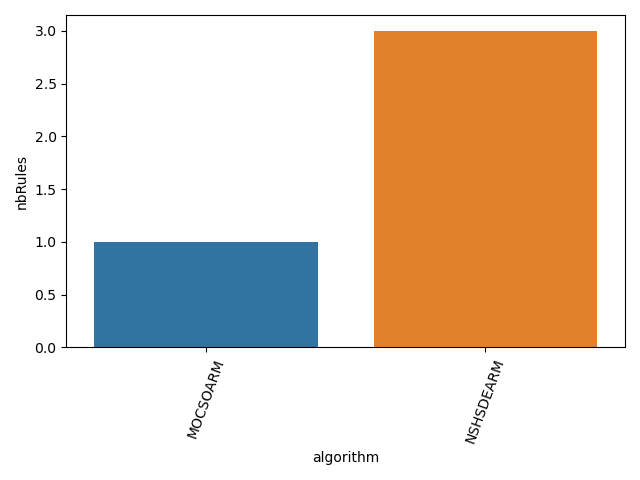
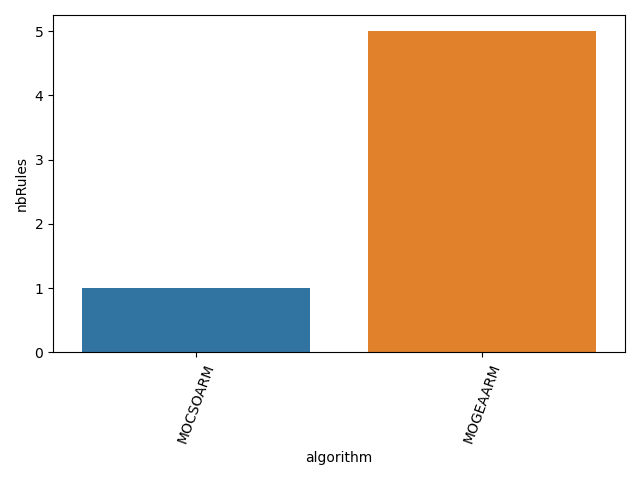
ad MOGEAARM

diff --git a/src/Algorithm/MOGEAARM.py b/src/Algorithm/MOGEAARM.py
@@ -1,0 +1,92 @@
+from src.Utils.Fitness import *
+from src.Utils.Population import *
+import matplotlib.pyplot as plt
+import pandas as pd
+from scipy.spatial import distance
+from src.Utils.Graphs import *
+from time import time
+from src.Utils.HyperParameters import *
+
+class MOGEAARM:
+    def __init__(self,nbItem,populationSize,nbIteration,nbObjectifs,objectiveNames,data,
+                 hyperParameters = HyperParameters(['Jr','Sr','epsilon'])):
+        self.population = Population('horizontal_binary', populationSize, nbItem)
+        self.nbItem = nbItem
+        self.nbIteration = nbIteration
+        self.nbObjectifs = nbObjectifs
+        self.fitness = Fitness('horizontal_binary', objectiveNames, populationSize )
+        self.bestInd = np.zeros(nbItem*2,dtype=float)
+        self.bestIndScore = np.zeros(nbObjectifs,dtype=float)
+        self.worstInd = np.zeros(nbItem * 2, dtype=float)
+        self.worstIndScore = np.zeros(nbObjectifs, dtype=float)
+        self.mutatedVectors = np.zeros((populationSize, nbItem * 2), dtype=float)
+        self.Jr = hyperParameters.hyperParameters['Jr']
+        self.Sr = hyperParameters.hyperParameters['Sr']
+        self.epsilon = hyperParameters.hyperParameters['epsilon']
+        self.mutatedVectors = np.zeros((populationSize,nbItem*2),dtype=float)
+        self.Si = np.ones(populationSize,dtype=float)
+        self.executionTime = 0
+        self.fitness.ComputeScorePopulation(self.population.population, data)
+
+
+
+    def UpdateBestWorst(self):
+        indexs = np.arange(self.population.populationSize)
+        paretoFront = np.ones(self.population.populationSize)
+        for i in range(self.population.populationSize):
+            for j in range(self.population.populationSize):
+                domination = self.fitness.Domination(self.fitness.scores[i],self.fitness.scores[j])
+                if domination == 1:
+                    paretoFront[i] += 1
+                    break
+        candidate = indexs[paretoFront == 1]
+        index = rd.choice(candidate)
+        worstIndex = np.argmax(paretoFront)
+        self.bestInd = copy.deepcopy(self.population.population[index])
+        self.bestIndScore = copy.deepcopy(self.fitness.scores[index])
+        self.worstInd = copy.deepcopy(self.population.population[worstIndex])
+        self.worstIndScore = copy.deepcopy(self.fitness.scores[worstIndex])
+
+    def VectorUpdating(self):
+        for i in range(self.population.populationSize):
+            rg = np.random.normal()
+            ra = np.random.normal()
+            dx = (abs(self.population.population[i]-self.bestInd)+abs(self.worstInd-self.population.population[i]))/2
+            gmove = (rg*dx/2)*((self.worstInd-self.bestInd)/(self.worstInd-self.population.population[i]+self.bestInd))
+            acc = ra*(self.bestInd-self.population.population[i])
+            self.mutatedVectors[i] = self.population.population[i]- gmove + acc
+
+    def VectorJumping(self):
+        for i in range(self.population.populationSize):
+            r = np.random.normal()
+            if r <self.Jr:
+                rm = rd.random()
+                index = rd.randint(0,self.population.populationSize-1)
+                individual = self.mutatedVectors[i] +rm*(self.mutatedVectors[i] - self.mutatedVectors[index])
+                self.mutatedVectors[i] = copy.deepcopy(individual)
+
+    def VectorRefreshing(self,data):
+        for i in range(self.population.populationSize):
+            score = self.fitness.ComputeScoreIndividual(self.mutatedVectors[i],data)
+            domination = self.fitness.Domination(self.fitness.scores[i],score)
+            if domination == 1:
+                self.population.population[i] = copy.deepcopy(self.mutatedVectors[i])
+            else:
+                self.Si[i] = self.Si[i]-self.epsilon*self.Si[i]
+                if self.Si[i]<self.Sr:
+                    self.population.population[i] = self.population.InitIndividual_HorizontalBinary()
+                    self.Si[i] = 1
+
+    def Run(self,data,i):
+
+        t1 = time()
+        self.UpdateBestWorst()
+        self.VectorUpdating()
+        self.VectorJumping()
+        self.population.CheckIfNull()
+        self.fitness.ComputeScorePopulation(self.population.population, data)
+        self.VectorRefreshing(data)
+        self.executionTime = time() - t1
+
+
+

diff --git a/main.py b/main.py
@@ -15,6 +15,7 @@ from src.Algorithm.MODAARM import *
 from src.Algorithm.MOHSBOTSARM import *
 from src.Algorithm.MODEARM import *
 from src.Algorithm.NSHSDEARM import *
+from src.Algorithm.MOGEAARM import *
 
 from src.Utils.Performances import *
 from src.Utils.Data import *
@@ -37,7 +38,7 @@ nbIteration = 10
 populationSize = 200
 objectiveNames = ['support','confidence','accuracy']
 criterionList = ['scores','execution time']
-algorithmNameList = ['MOCSOARM','NSHSDEARM']
+algorithmNameList = ['MOCSOARM','MOGEAARM']
 #algorithmNameList = ['CSOARM','mopso','nsgaii','hmofaarm','mowsaarm','mocatsoarm','motlboarm','mofpaarm','moaloarm','modaarm','MOHSBOTSARM']
 
 perf = Performances(algorithmNameList,criterionList,objectiveNames)
@@ -62,10 +63,11 @@ modaarm = MODAARM(d.data.shape[1],populationSize,nbIteration,len(objectiveNames)
 mohsbotsarm = MOHSBOTSARM(d.data.shape[1],populationSize,nbIteration,len(objectiveNames),objectiveNames,d.data)
 modearm = MODEARM(d.data.shape[1],populationSize,nbIteration,len(objectiveNames),objectiveNames,d.data)
 nshsdearm = NSHSDEARM(d.data.shape[1],populationSize,nbIteration,len(objectiveNames),objectiveNames,d.data)
+mogeaarm = MOGEAARM(d.data.shape[1],populationSize,nbIteration,len(objectiveNames),objectiveNames,d.data)
 
 
 #algorithmList = [mocsoarm,mopso,nsgaii,hmofaarm,mowsaarm,mocatsoarm,motlboarm,mofpaarm,moaloarm,modaarm,mohsbotsarm]
-algorithmList = [mocsoarm,nshsdearm]
+algorithmList = [mocsoarm,mogeaarm]
 for i in range(nbIteration):
     k = 0
     for alg in algorithmList:

diff --git a/src/Utils/Performances.py b/src/Utils/Performances.py
@@ -39,7 +39,7 @@ class Performances:
             self.executionTime = self.executionTime.append(executionTimeDF, ignore_index=True)
 
     def UpdateLeaderBoard(self):
-        self.leaderBoard = np.array([0 for i in range(len(self.algorithmList))])
+        self.leaderBoard = np.array([0 for i in range(len(self.algorithmList))],dtype=float)
         fitness = Fitness('horizontal_binary',self.objectiveNames,0)
         for i in range(len(self.algorithmList)):
             solutionsi = self.scores[self.scores['algorithm'] == self.algorithmList[i]][self.objectiveNames].to_numpy()
